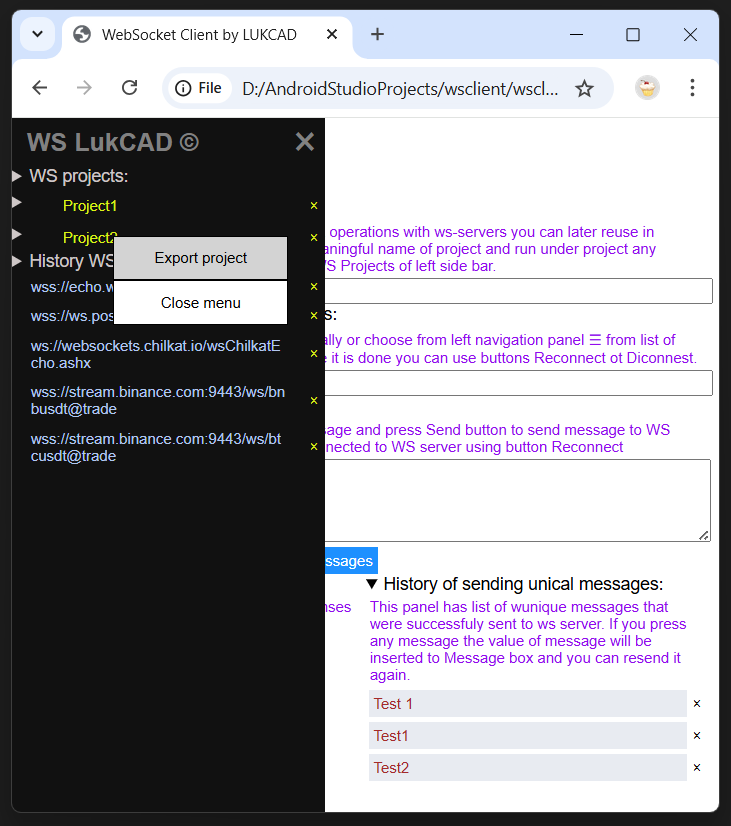
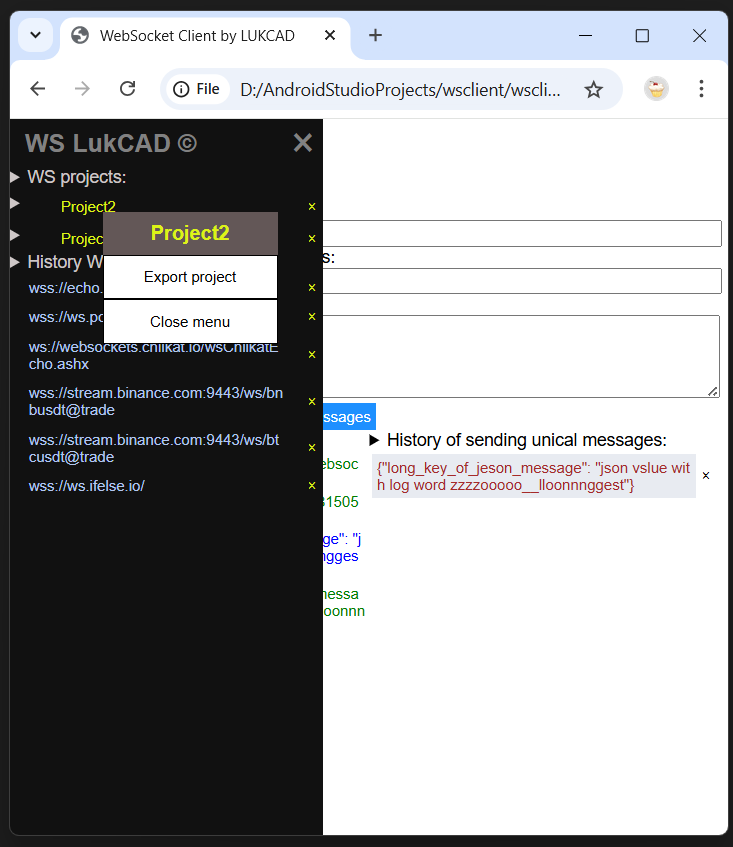
version 1.0.26

diff --git a/wsclient.html b/wsclient.html
@@ -298,6 +298,16 @@
             background-color: #D3D3D3;
         }
 
+        #menuWSProjectsActions b {
+            padding: 0.5rem;
+            display: flex;
+            flex-direction: column;
+            align-items: center;
+            justify-content: center;
+            color: #ddf316;
+            background-color: rgb(99, 87, 87);
+        }
+
 
         #menuProjectActions {
             position: absolute;
@@ -324,6 +334,16 @@
             background-color: #D3D3D3;
         }
 
+        #menuProjectActions b {
+            padding: 0.5rem;
+            display: flex;
+            flex-direction: column;
+            align-items: center;
+            justify-content: center;
+            color: #ddf316;
+            background-color: rgb(99, 87, 87);
+        }        
+
         #menuHistoryActions {
             position: absolute;
             margin: 0;
@@ -348,6 +368,16 @@
         #menuHistoryActions p:hover {
             background-color: #D3D3D3;
         }
+
+        #menuHistoryActions b {
+            padding: 0.5rem;
+            display: flex;
+            flex-direction: column;
+            align-items: center;
+            justify-content: center;
+            color: #ddf316;
+            background-color: rgb(99, 87, 87);
+        }  
     </style>
 </head>
 
@@ -405,18 +435,21 @@
 
         <!--Action menu for WS Porjects title. Hidden and appear only by right click-->
         <div id="menuWSProjectsActions" class="dropdownmenu" style="display: none;">
+            <b id="namemenuWSProjectsActions"></b>
             <p id="importWSProjects" onclick="clickMenuItemOnWSProjectsActions(event)">Import project/history</p>
             <p id="closeWSProjectsMenu" onclick="clickMenuItemOnWSProjectsActions(event)">Close menu</p>
         </div>
 
         <!--Action menu for porjects. Hidden and appear only by right click-->
         <div id="menuProjectActions" class="dropdownmenu" style="display: none;">
+            <b id="namemenuProjectActions"></b>
             <p id="exportProject" onclick="clickMenuItemOnProjectActions(event)">Export project</p>
             <p id="closeProjectMenu" onclick="clickMenuItemOnProjectActions(event)">Close menu</p>
         </div>
 
         <!--Action menu for history. Hidden and appear only by right click-->
         <div id="menuHistoryActions" class="dropdownmenu" style="display: none;">
+            <b id="namemenuHistoryActions"></b>
             <p id="exportHistory" onclick="clickMenuItemOnHistoryActions(event)">Export history</p>
             <p id="closeHistoryMenu" onclick="clickMenuItemOnHistoryActions(event)">Close menu</p>
         </div>
@@ -608,7 +641,10 @@
                 var menu = document.getElementById("menuWSProjectsActions");
 
                 // close other elements with class "dropdownmenu"
-                closeDropDownLists(menu.id);  
+                closeDropDownLists(menu.id); 
+                
+                // write title of menu
+                document.getElementById("namemenuWSProjectsActions").innerHTML = 'WS Projects';
 
                 // show 'context menu'
                 menu.style.left = e.pageX + "px";
@@ -650,6 +686,9 @@
                 var _wsprojectname = e.target.innerHTML;
                 document.getElementById("exportProject").title = _wsprojectname ?? '';
                 document.getElementById("closeProjectMenu").title = _wsprojectname ?? '';
+
+                // write title of menu
+                document.getElementById("namemenuProjectActions").innerHTML = _wsprojectname;                  
 
                 // show 'context menu'
                 menu.style.left = e.pageX + "px";
@@ -695,7 +734,10 @@
                 var menu = document.getElementById("menuHistoryActions");
 
                 // close other elements with class "dropdownmenu"
-                closeDropDownLists(menu.id);             
+                closeDropDownLists(menu.id); 
+                
+                // write title of menu
+                document.getElementById("namemenuHistoryActions").innerHTML = 'History WS servers';                   
 
                 // show 'context menu'
                 menu.style.left = e.pageX + "px";
